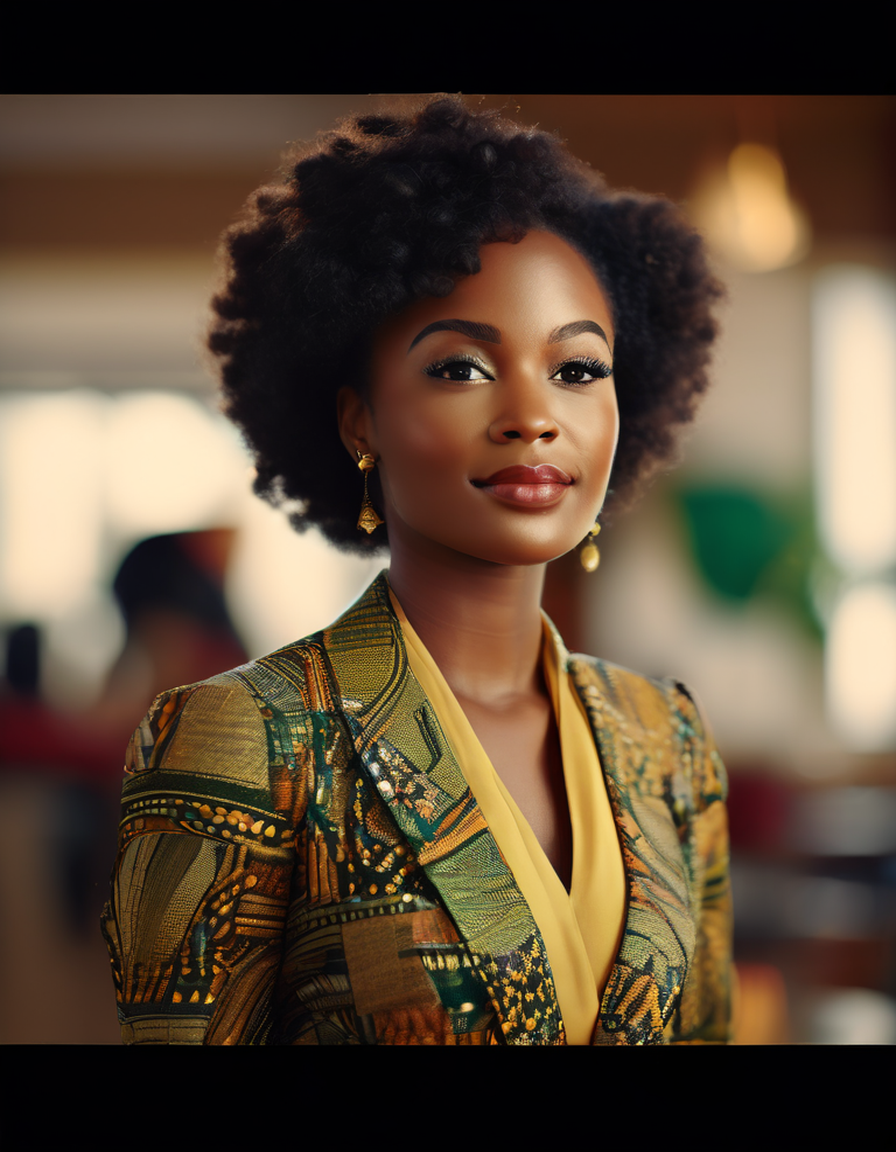
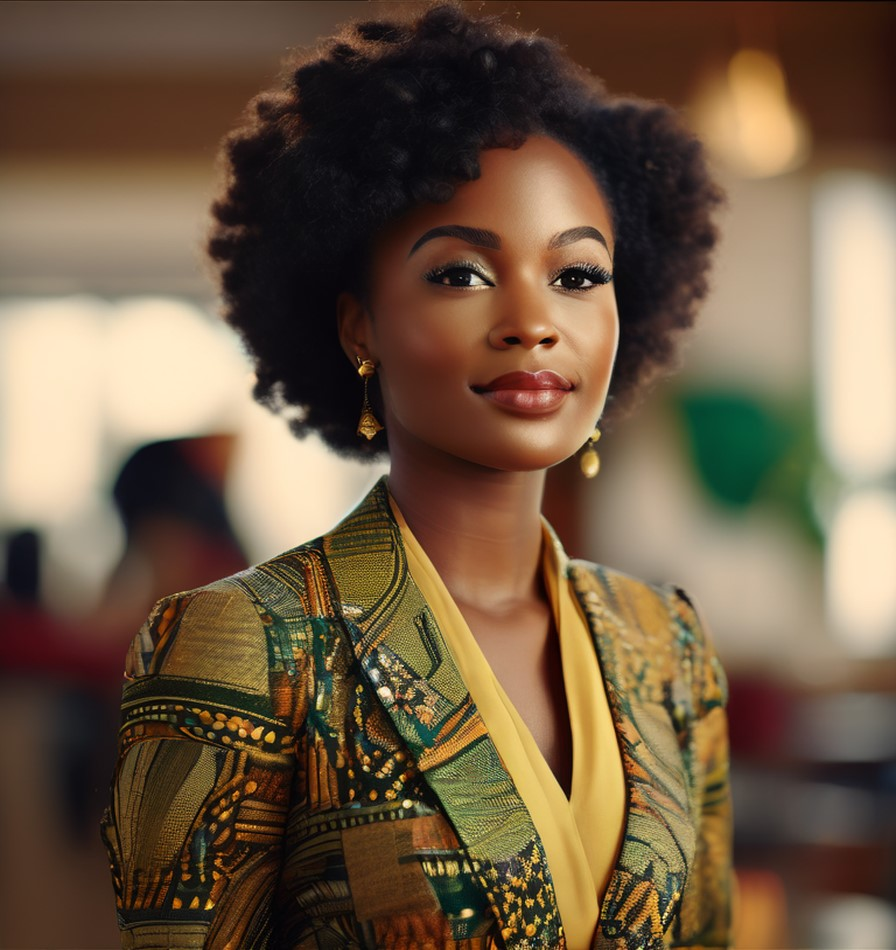
modified:   images/9.jpg 	modified:   index.html

diff --git a/index.html b/index.html
@@ -68,7 +68,7 @@
         </nav>
       </header>
       <main>
-        <div class="hero-container hero">
+        <div class="hero-container">
           <div class="hero-text-container">
             <p class="hero-subtitle">Hello, My name is Annabel.</p>
 
@@ -88,10 +88,21 @@
             <div class="hero-banner">
               <figure >
                 <img src="images/3-removebg.png" width="400"
-                  alt="Annie">
+                  alt="Annabel">
               </figure>
             </div>
           </div>
+        </div>
+
+        <div class="about-section">
+          <article>
+            <div class="about-image-container">
+              <img src="images/9.jpg" alt="Annabel" width="400">
+            </div>
+            <div class="about-statement-container">
+              <p>I am a WEB DEVELOPER</p>
+            </div>
+          </article>
         </div>
       
         
